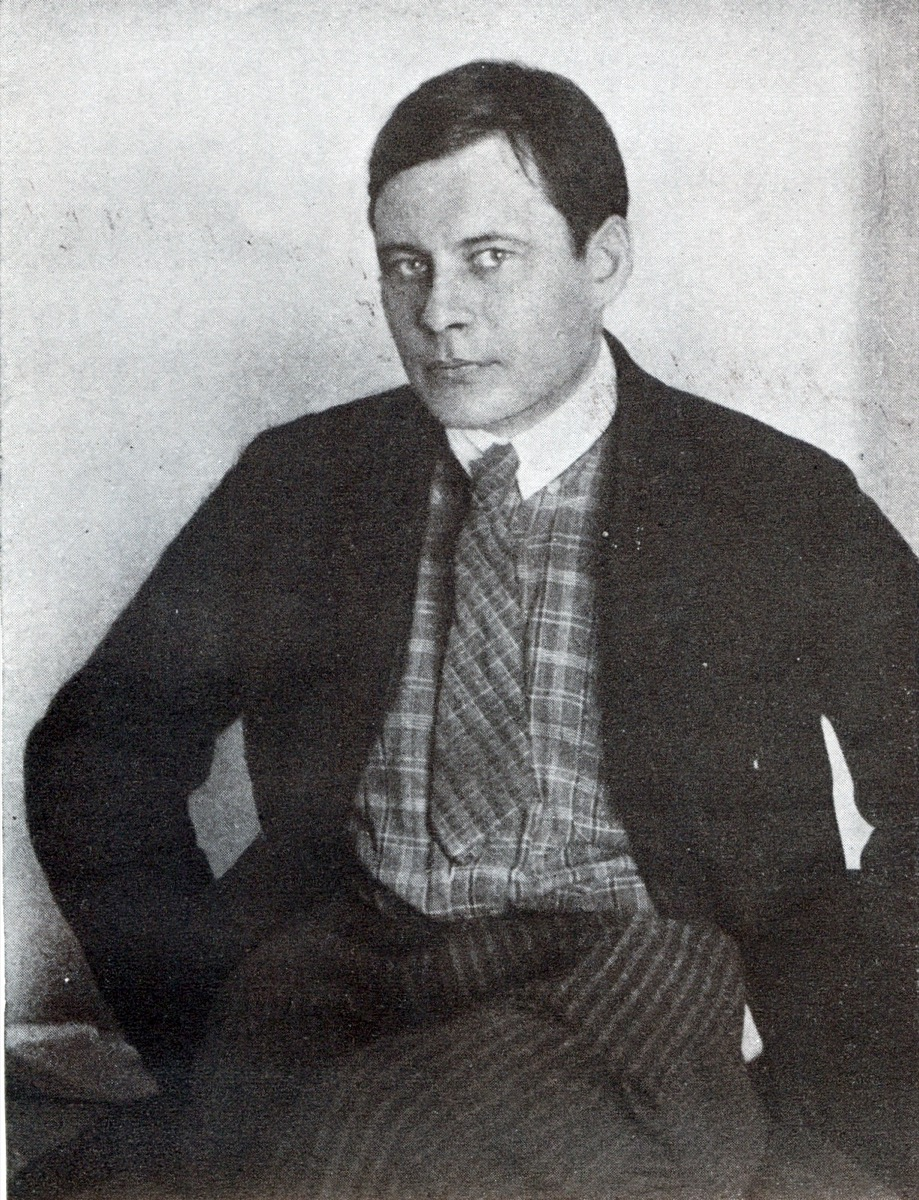
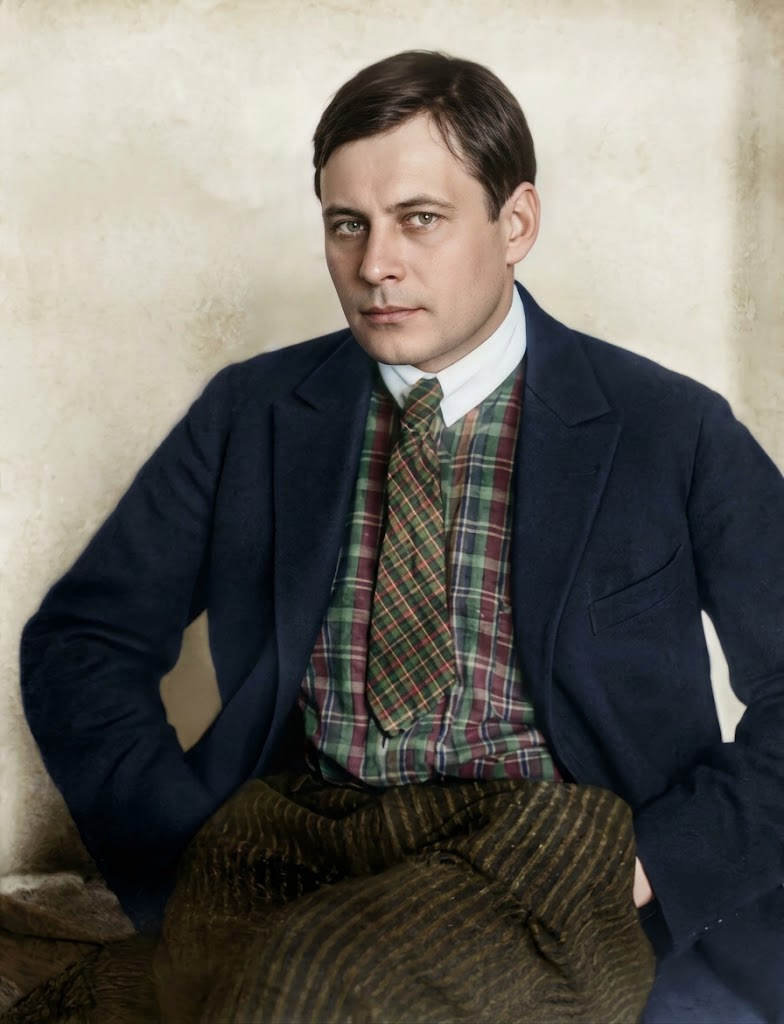
Approve Yohansen with AI-colorized portrait; give the burned poems their own section

diff --git a/src/content/people/uk/maik-yohansen.md b/src/content/people/uk/maik-yohansen.md
@@ -19,6 +19,7 @@ image:
   author: "О. Кореневич"
   license: "Public domain"
   source_url: "https://commons.wikimedia.org/wiki/File:Mayk_Yohansen.jpg"
+  ai_edit: colorized
 key_accomplishments:
   - "Роман «Подорож ученого доктора Леонардо... у Слобожанській Швейцарії» (1928), де головний герой - краєвид"
   - "Збірки поезій «Д'горі» (1921), «Кроковеє коло» (1923), «Ясен» (1930)"
@@ -39,7 +40,8 @@ sources:
     url: "https://www.ukrinform.ua/rubric-society/3124628-28-zovtna-pamatni-dati.html"
 related: [mykola-khvylovyi, oleksandr-dovzhenko, ostap-vyshnia, les-kurbas, mykhail-semenko, yurii-tiutiunnyk]
 collections: [executed-renaissance]
-status: draft
+status: approved
+published: 2026-10-18T22:58:19Z
 ---
 
 ## Роман на 100 тисяч примірників
@@ -48,7 +50,11 @@ status: draft
 
 ## Харківець із німецьким прізвищем
 
-Михайло (Майк) Йогансен народився 28 жовтня 1895 року в Харкові. Його батько, Гервасій Йогансен, викладав німецьку мову в харківських гімназіях. За одними джерелами батько був німцем, за іншими - обрусілим шведом. Мати, Ганна Крамаревська, була українкою з роду старобільських козаків. Майк закінчив класичну гімназію, а 1917 року - історико-філологічний факультет Харківського університету зі ступенем магістра. Гімназистом він писав вірші російською й німецькою, але згодом усі їх спалив. Після революції писав тільки українською; першу збірку, «Д'горі», видав 1921 року.
+Михайло (Майк) Йогансен народився 28 жовтня 1895 року в Харкові. Його батько, Гервасій Йогансен, викладав німецьку мову в харківських гімназіях. За одними джерелами батько був німцем, за іншими - обрусілим шведом. Мати, Ганна Крамаревська, була українкою з роду старобільських козаків. Майк закінчив класичну гімназію, а 1917 року - історико-філологічний факультет Харківського університету зі ступенем магістра.
+
+## Спалити минуле: як народжувався Майк Йогансен
+
+Гімназистом Майк Йогансен писав вірші російською й німецькою, але згодом усі їх спалив. Цей радикальний крок був не лише проявом художнього перфекціонізму, а й свідомим ідеологічним вибором та актом патріотизму на тлі Української революції. Спаливши юнацький доробок імперського періоду, він остаточно порвав із минулим заради розбудови нової української культури. Після цього письменник писав виключно українською мовою, долучившись до авангардних літературних процесів. Першу власну збірку під назвою «Д'горі» він видав 1921 року.
 
 ## Маніфест і ВАПЛІТЕ
 

diff --git a/src/content/people/en/maik-yohansen.md b/src/content/people/en/maik-yohansen.md
@@ -23,7 +23,11 @@ Picture a Ukrainian adventure story that comes out in instalments, like a TV ser
 
 ## A Kharkiv boy with a German surname
 
-Mykhailo (Maik) Yohansen was born on 28 October 1895 in Kharkiv. His father, Hervasii Yohansen, taught German at Kharkiv gymnasiums. Some sources call him German; others, a Russified Swede. His mother, Hanna Kramarevska, was Ukrainian, from a Cossack family of the Starobilsk area. Maik went to a classical gymnasium and in 1917 graduated in history and philology from Kharkiv University with a master’s degree. As a schoolboy he wrote poems in Russian and German, but later burned them all. After the revolution he wrote only in Ukrainian; his first collection, D’hori, came out in 1921.
+Mykhailo (Maik) Yohansen was born on 28 October 1895 in Kharkiv. His father, Hervasii Yohansen, taught German at Kharkiv gymnasiums. Some sources call him German; others, a Russified Swede. His mother, Hanna Kramarevska, was Ukrainian, from a Cossack family of the Starobilsk area. Maik went to a classical gymnasium and in 1917 graduated in history and philology from Kharkiv University with a master’s degree.
+
+## Burning the past: how Maik Yohansen began
+
+As a schoolboy, Maik Yohansen wrote poems in Russian and German, but later burned them all. This radical step was not just artistic perfectionism but also a conscious ideological choice and an act of patriotism against the backdrop of the Ukrainian Revolution. By burning the youthful work of his imperial years, he broke with the past for good to help build a new Ukrainian culture. From then on he wrote only in Ukrainian and joined the avant-garde literary movement. His first collection, D’hori, came out in 1921.
 
 ## A manifesto and VAPLITE
 
